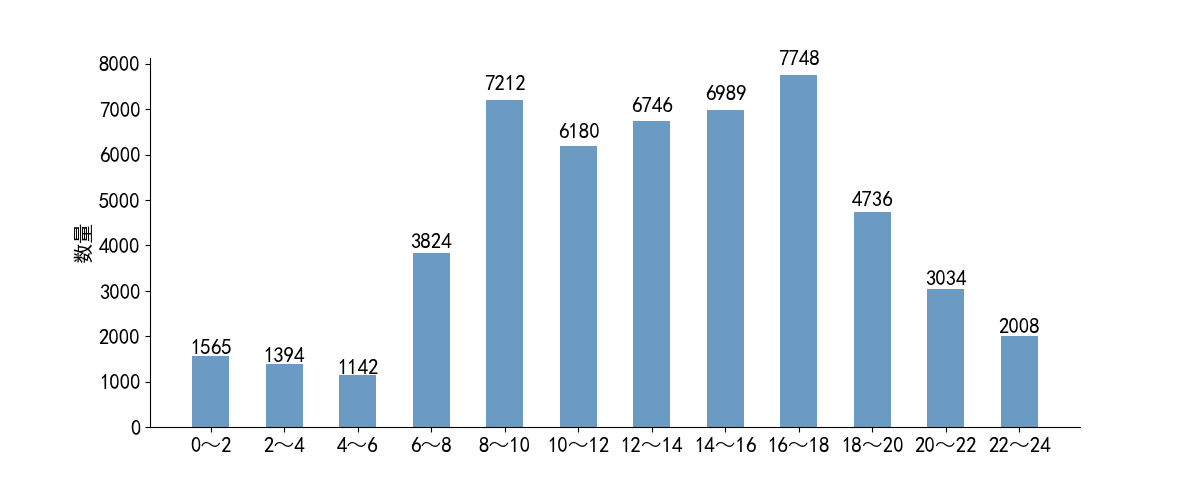
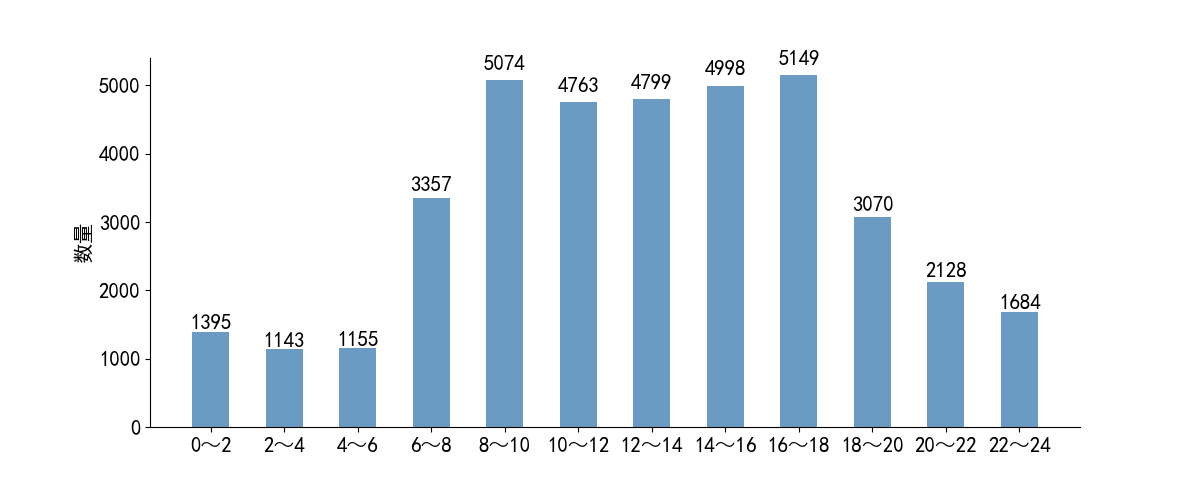
大樟桥19年12月份数据更新

diff --git a/HelinConsoleApp/Program.cs b/HelinConsoleApp/Program.cs
@@ -81,8 +81,8 @@ namespace HelinConsoleApp
             var Gross_Load_Dist = new List<int>();
             var Gross_Load_Dist2 = new List<int>();
 
-            var StartDataTime = new DateTime(2020, 3, 1, 0, 0, 0);
-            var FinishDataTime = new DateTime(2020, 3, 21, 0, 0, 0);
+            var StartDataTime = new DateTime(2019, 12, 20, 0, 0, 0);
+            var FinishDataTime = new DateTime(2020, 1, 1, 0, 0, 0);
 
             //Expression<Func<HS_Data_201908, bool>> dataPredicate = x => x.HSData_DT >= StartDataTime && x.HSData_DT <= FinishDataTime;
 
@@ -92,7 +92,7 @@ namespace HelinConsoleApp
                 {
                     #region HS_DataForAnalysis
                     var HS_DataForAnalysis = (
-                        from c in db.HS_Data_202003
+                        from c in db.HS_Data_201912
                         select new MyHS_Data
                         {
                             Acceleration = c.Acceleration,
@@ -135,7 +135,7 @@ namespace HelinConsoleApp
                             Gross_Load = c.Gross_Load
                         }
                         ).Union(
-                        from e in db.HS_Data_202004
+                        from e in db.HS_Data_202001
                         select new MyHS_Data
                         {
                             Acceleration = e.Acceleration,

diff --git a/PythonApplication/PythonApplication.py b/PythonApplication/PythonApplication.py
@@ -88,10 +88,10 @@ def plotItem(plt,itemChosen):
     #不同时间段车辆总数
     #不同速度车辆数及比例
     y_dataList=[
-    [17905,7073,402,89],
-    [16628,1820,1230,7431],
-    [1565,1394,1142,3824,7212,6180,6746,6989,7748,4736,3034,2008],
-    [237,11893,34710,5738]
+    [11870,5821,730,289],
+    [11577,2567,1452,4409],
+    [1395,1143,1155,3357,5074,4763,4799,4998,5149,3070,2128,1684],
+    [209,11780,22640,4086]
     ]
 
     ## 包含每个柱子对应值的序列
